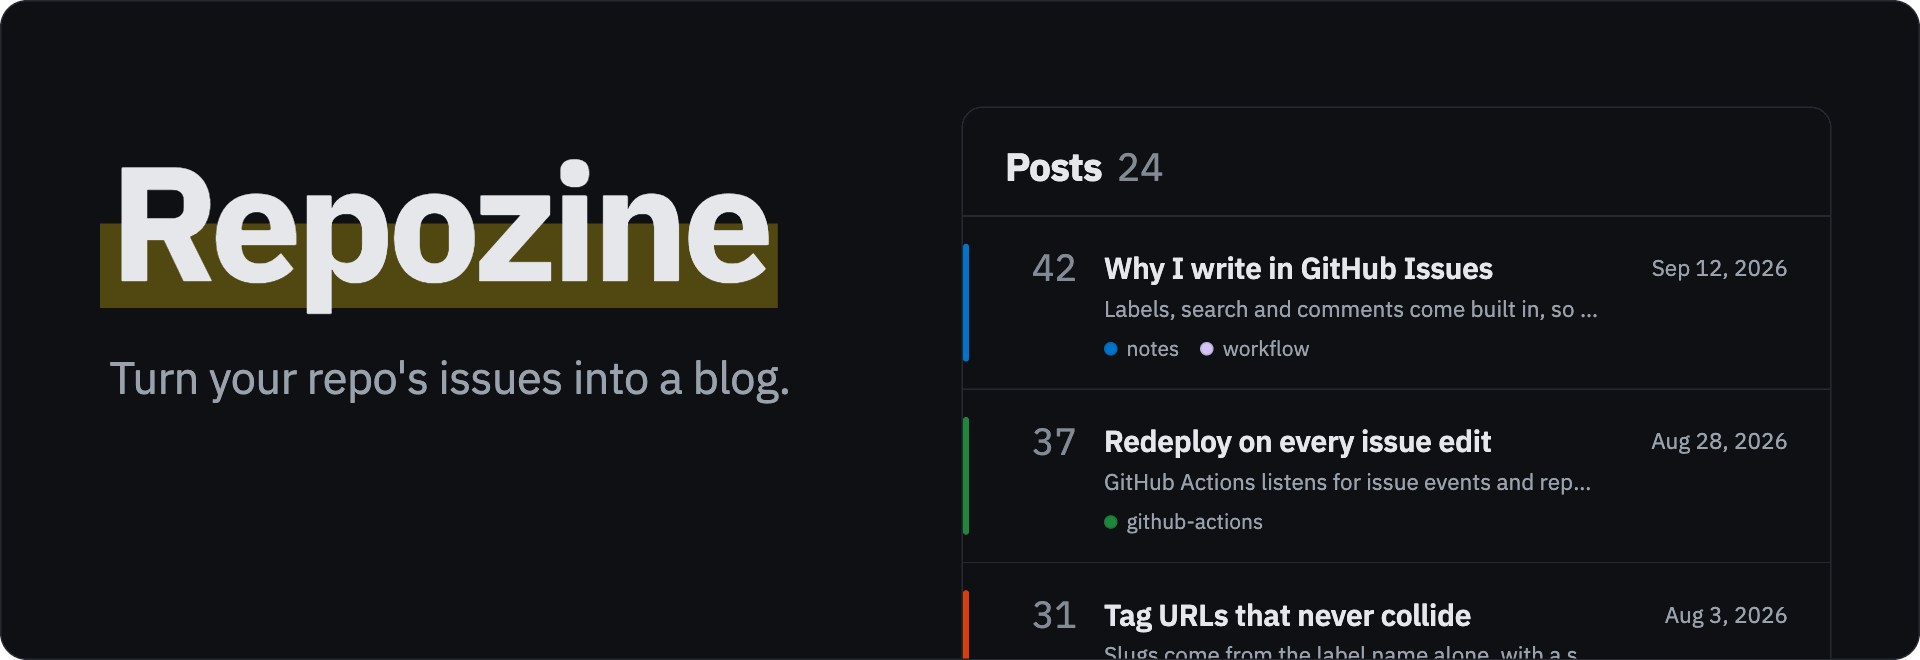
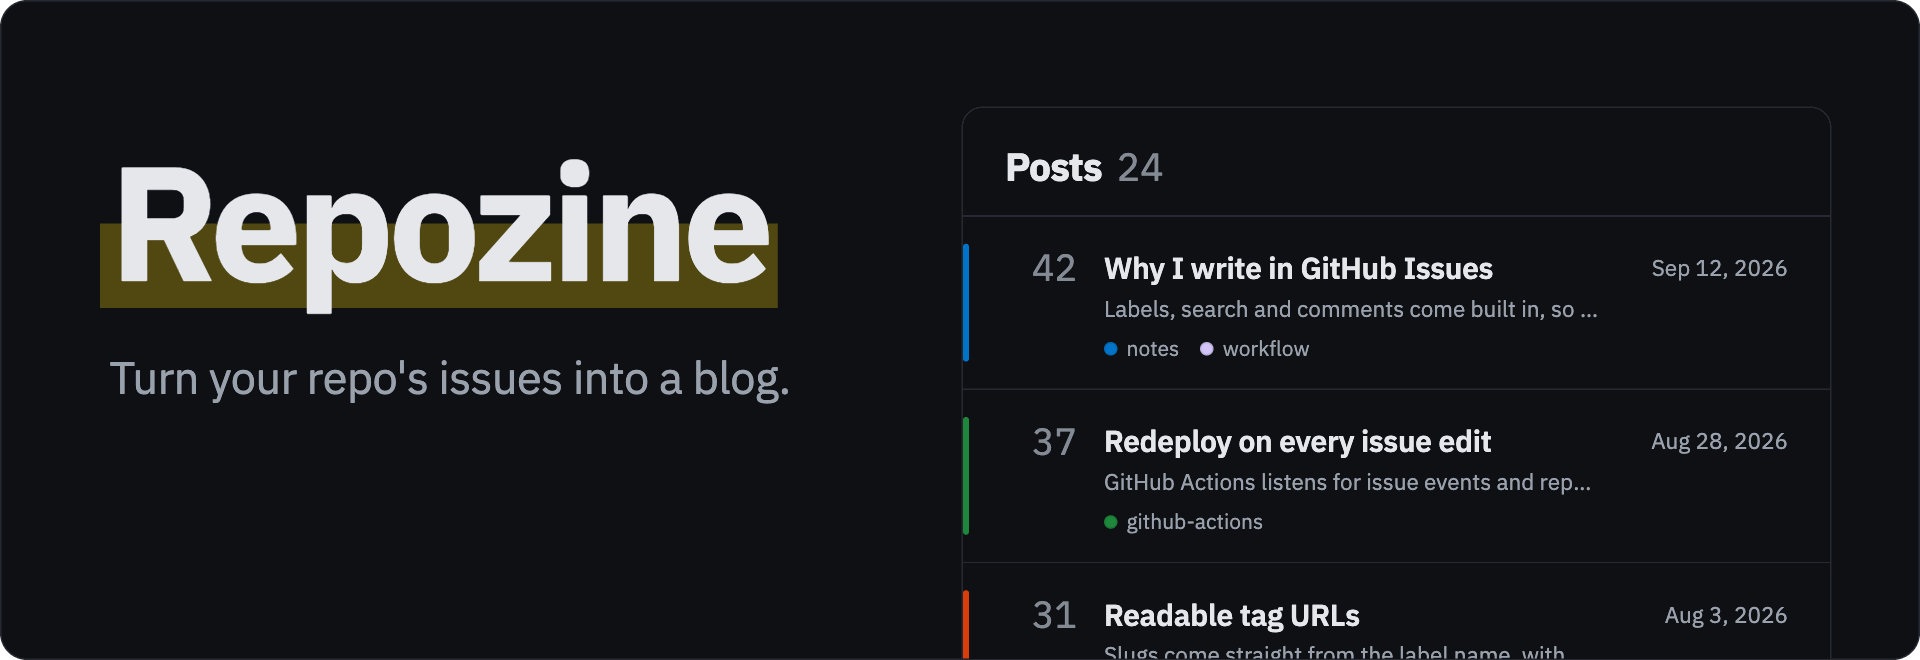
docs(brand): hero sample post no longer describes hashed tag slugs

Changed region(s): [[0.5625, 0.9091, 0.8125, 1.0]]

diff --git a/.github/assets/repozine-hero.html b/.github/assets/repozine-hero.html
@@ -249,8 +249,8 @@
         <div class="row" style="--stripe: #d93f0b">
           <span class="n">31</span>
           <div>
-            <p class="t">Tag URLs that never collide</p>
-            <p class="x">Slugs come from the label name alone, with a short hash only when characters change.</p>
+            <p class="t">Readable tag URLs</p>
+            <p class="x">Slugs come straight from the label name, with spaces turned into hyphens.</p>
             <p class="labels"><span><i style="background: #d93f0b"></i>astro</span><span><i style="background: #fbca04"></i>til</span></p>
           </div>
           <span class="d">Aug 3, 2026</span>
